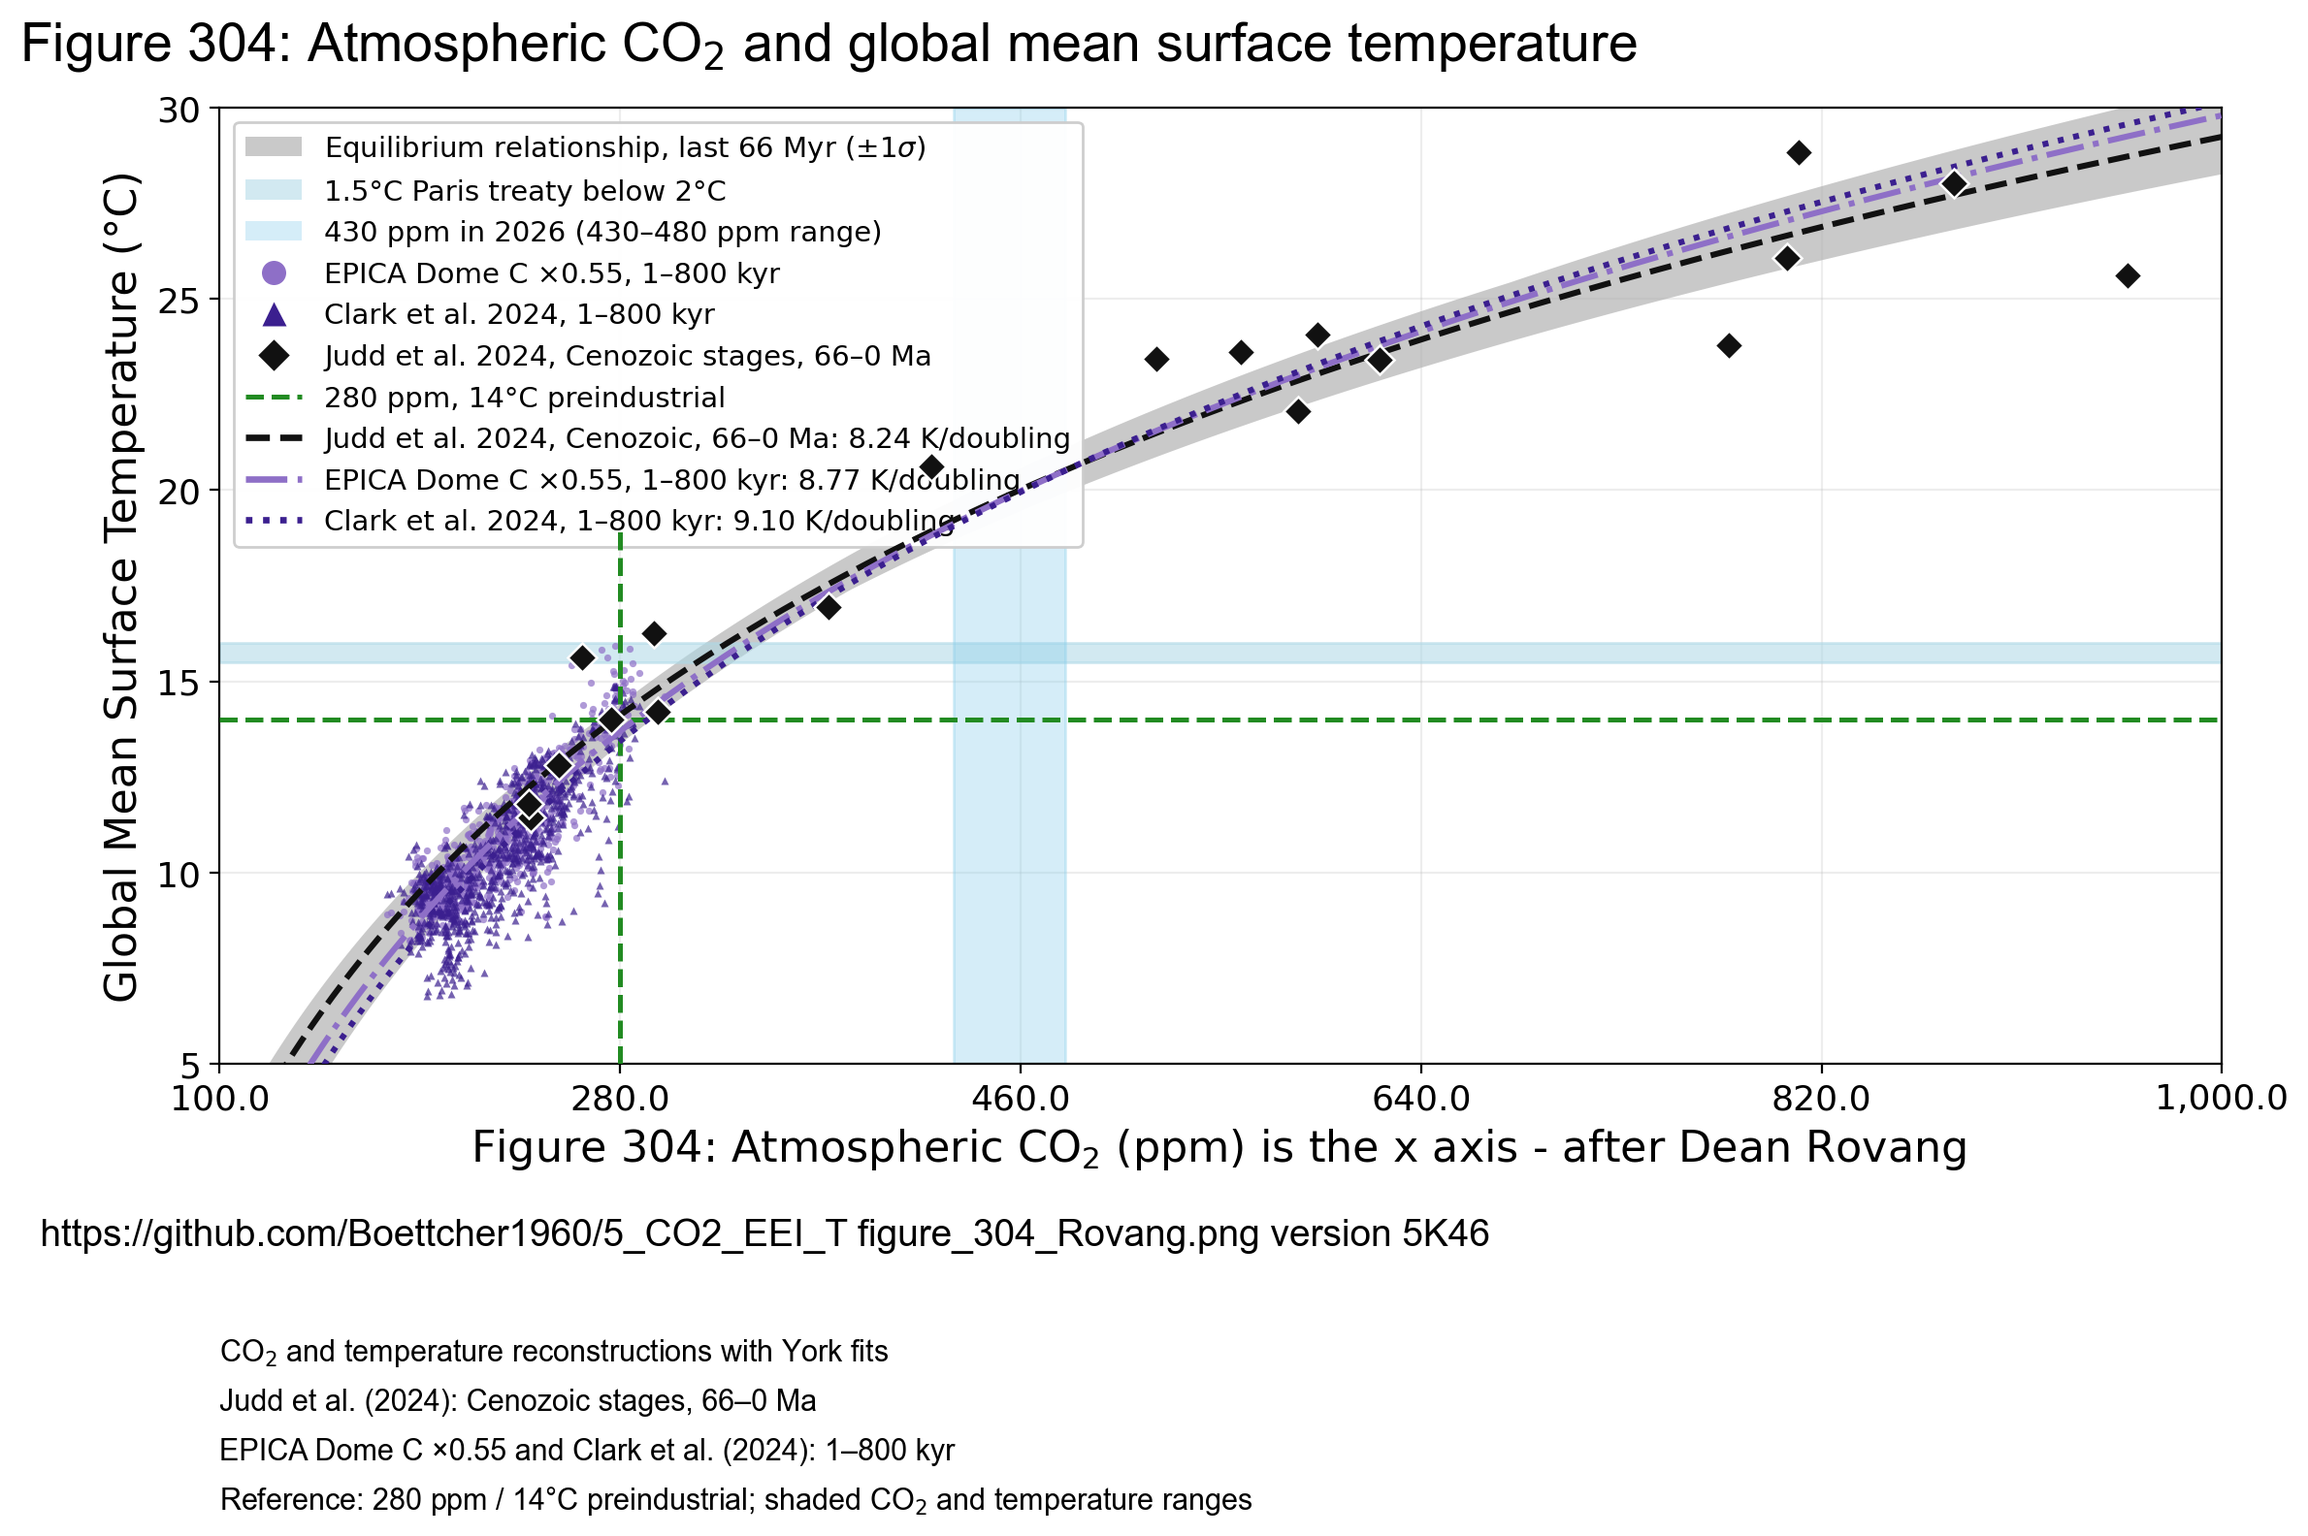
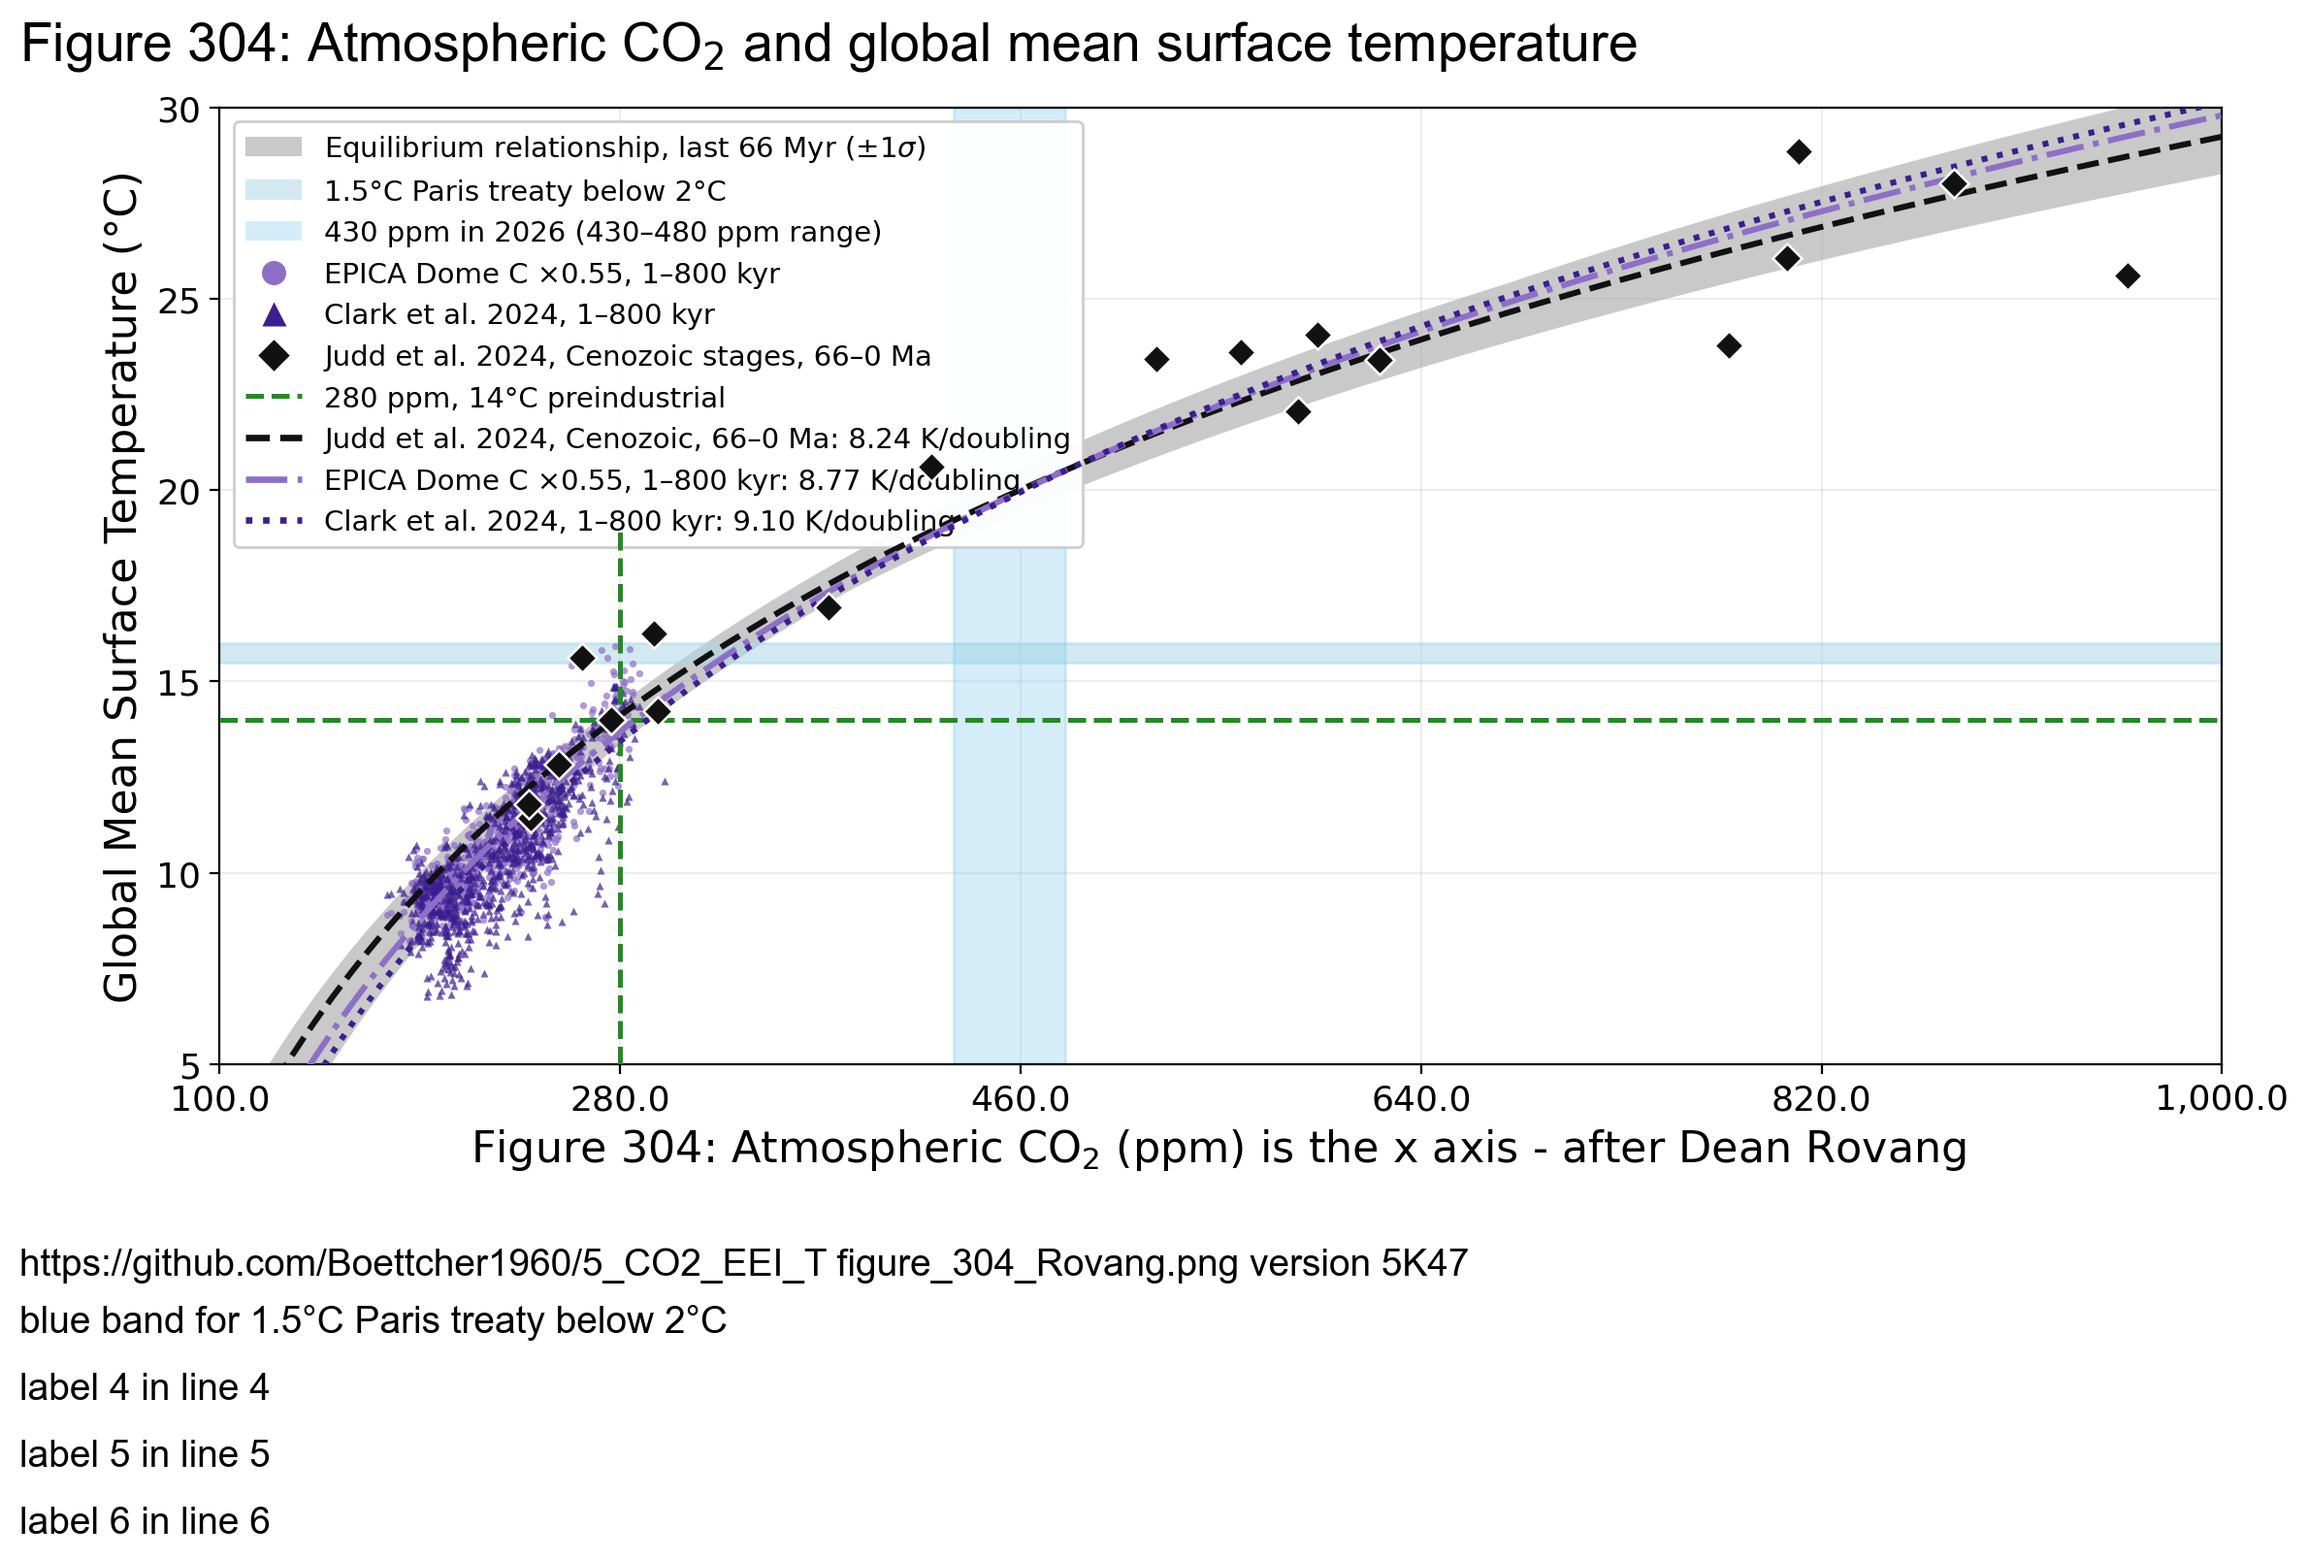
5K47

Changed region(s): [[0.0, 0.0619, 0.9954, 0.9899]]

diff --git a/Rovang/Rovang_figure_303.py b/Rovang/Rovang_figure_303.py
@@ -139,6 +139,8 @@ def _create_figure(linear_x=False):
 
     # 303.100 green dashed line for 280 ppm the 1850 to 1900 CO2 atmosphere level
     ax.plot([280, 280], [5, 19], color=reference_color, ls="--", lw=1.8, zorder=6)
+
+     # 303.101 legend with the 3 fits and the 4 bands
     handles = [
         Patch(facecolor=GRAY, alpha=0.75,
               label="Equilibrium relationship, last 66 Myr ($\\pm1\\sigma$)"),
@@ -160,31 +162,46 @@ def _create_figure(linear_x=False):
             Line2D([], [], color=color, ls=style, lw=2.4,
                    label=f"{name}: {slope:.2f} K/doubling")
         )
+    # 303.109 plot the legend with the 3 fits and the 4 bands
     ax.legend(handles=handles, fontsize=10.5, loc="upper left", framealpha=0.96)
 
-    #text_below = (f"Figure from  "
-    #              f"https://github.com/Boettcher1960/5_CO2_EEI_T      "
-    #              f" {filename} version {v} ")
-    text_below3 = (f"  "
+    # 303.121 print line 2 github with version number below the plot
+    text_below3 = (f""
                   f"https://github.com/Boettcher1960/5_CO2_EEI_T"
                   f" {filename} version {v} ")
-   
-    # f"https://github.com/Boettcher1960/co2_python       Parameter {header_parameter}")
-    ax.text(-0.1, tr1y, text_below3, color="black", fontname="Arial", fontsize=14,
+    t3y2 = -0.22    # 303.122 print line 2 t3y2 = -0.22
+    # 303.123 print line 2 github with version number below the plot
+    ax.text(-0.1, t3y2, text_below3, color="black", fontname="Arial", fontsize=14,
+            transform=ax.transAxes)
+
+    t3y3 = -0.28    # 303.124 print line 3 t3y3 = -0.28
+    label3="blue band for 1.5\u00b0C Paris treaty below 2°C"
+    # 303.125 print line 3 below the plot
+    ax.text(-0.1, t3y3, label3, color="black", fontname="Arial", fontsize=14,
             transform=ax.transAxes)
 
 
     fig.subplots_adjust(left=0.12, right=0.98, top=0.88, bottom=0.30)
-    bottom_lines = [
-        "CO$_2$ and temperature reconstructions with York fits",
-        "Judd et al. (2024): Cenozoic stages, 66–0 Ma",
-        "EPICA Dome C ×0.55 and Clark et al. (2024): 1–800 kyr",
-        "Reference: 280 ppm / 14°C preindustrial; shaded CO$_2$ and temperature ranges",
-    ]
-    for y, line in zip((0.12, 0.09, 0.06, 0.03), bottom_lines):
-        fig.text(
-            0.12, y, line, color="black", fontname="Arial", fontsize=11,
-        )
+    
+    t3y4 = -0.35    # 303.124 print line 6 
+    label4="label 4 in line 4"
+    # 303.125 print line 3 below the plot
+    ax.text(-0.1, t3y4, label4, color="black", fontname="Arial", fontsize=14,
+            transform=ax.transAxes)
+
+    t3y5 = -0.42    # 303.124 print line 6 
+    label5="label 5 in line 5"
+    # 303.125 print line 3 below the plot
+    ax.text(-0.1, t3y5, label5, color="black", fontname="Arial", fontsize=14,
+            transform=ax.transAxes)
+
+    t3y6 = -0.49    # 303.124 print line 6 
+    label6="label 6 in line 6"
+    # 303.125 print line 3 below the plot
+    ax.text(-0.1, t3y6, label6, color="black", fontname="Arial", fontsize=14,
+            transform=ax.transAxes)
+
+
 
     fig.savefig(output_path, dpi=200, bbox_inches="tight")
     plt.show()

diff --git a/main.py b/main.py
@@ -1,5 +1,5 @@
 # main.py
-v = "5K46" # make 4 text lines below the plot like in text_9_print_7_lines():
+v = "5K47" # make 4 text lines below the plot like in text_9_print_7_lines():
 # https://github.com/Boettcher1960/5_CO2_EEI_T
 # ocean stratification https://bsky.app/profile/thomas-boettcher.bsky.social/post/3mj7zx7fzsc26
 # https://drtomharris.substack.com/p/the-great-decoupling-how-ocean-stratification
